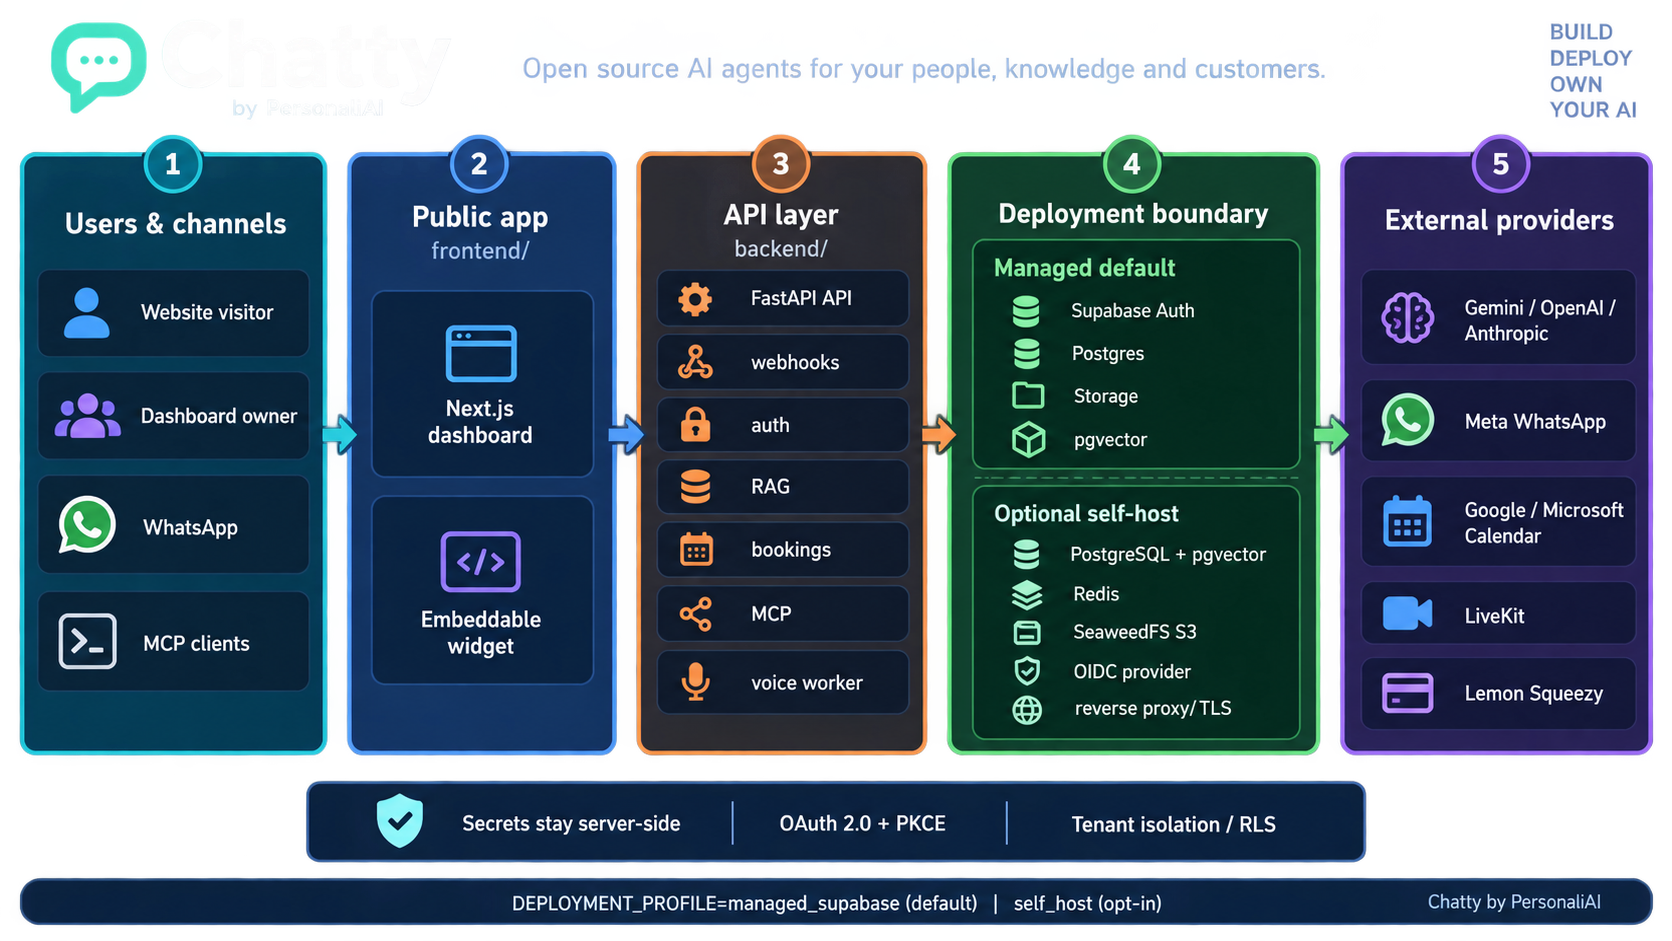
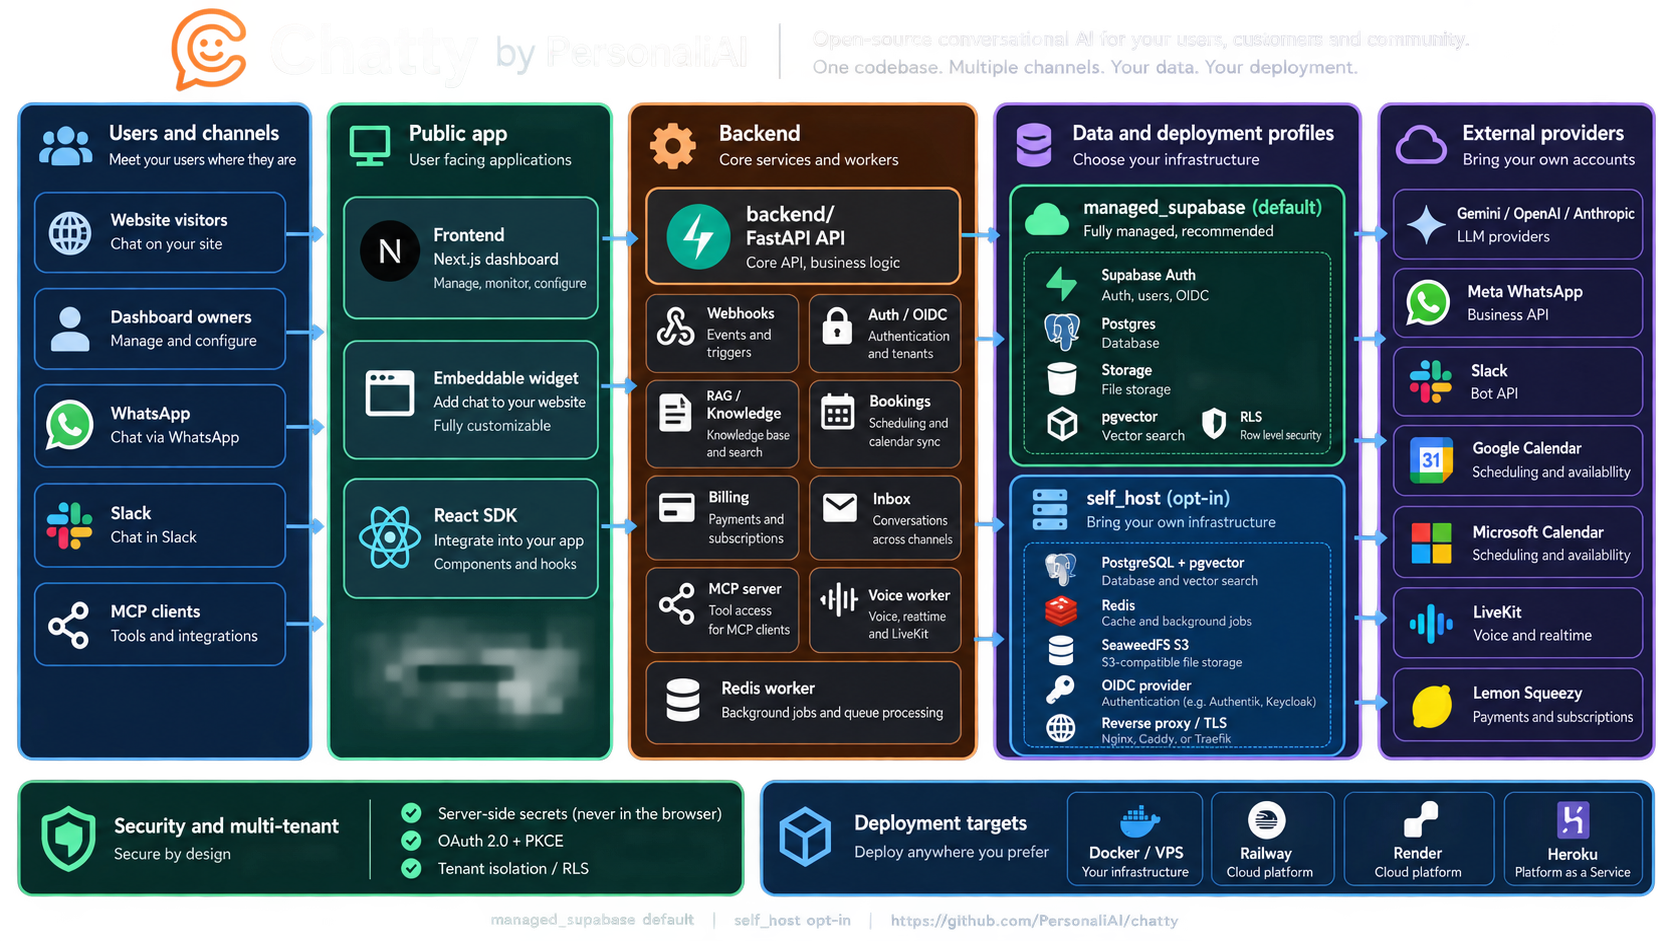
docs: document full architecture and platform compatibility

diff --git a/README.md b/README.md
@@ -89,23 +89,97 @@ main request flow.
 
 ```mermaid
 flowchart LR
-    visitor(("Website visitor")) -->|chat / voice| widget["Embeddable widget\n(Next.js)"]
-    owner(("Bot owner")) --> dashboard["Dashboard\n(Next.js)"]
-    agent(("AI agent\n(Claude, etc.)")) -->|MCP / OAuth 2.0| api
-    widget --> api["chatty-backend\n(FastAPI)"]
-    dashboard --> api
-    caller(("Phone-call-style\nvoice visitor")) -->|WebRTC| voice["voice_worker.py\n(LiveKit Agents)"]
-    voice --> api
-    api --> db[("Supabase\nPostgres + pgvector + RLS")]
-    api --> llm["Gemini / BYOK LLM"]
-    voice --> livekit["LiveKit Server\n(Self-Hosted / Cloud)"]
+    classDef channel fill:#0f3554,color:#fff,stroke:#38bdf8
+    classDef app fill:#073b35,color:#fff,stroke:#34d399
+    classDef service fill:#4a2811,color:#fff,stroke:#fb923c
+    classDef managed fill:#064e3b,color:#fff,stroke:#6ee7b7
+    classDef selfhost fill:#102a43,color:#fff,stroke:#60a5fa
+    classDef provider fill:#29144f,color:#fff,stroke:#c084fc
+    classDef target fill:#172554,color:#fff,stroke:#93c5fd
 
-    style widget fill:#6366f1,color:#fff,stroke:none
-    style dashboard fill:#6366f1,color:#fff,stroke:none
-    style api fill:#009688,color:#fff,stroke:none
-    style voice fill:#ff6600,color:#fff,stroke:none
-    style db fill:#3ecf8e,color:#000,stroke:none
-    style agent fill:#8b5cf6,color:#fff,stroke:none
+    subgraph channels["Users and channels"]
+        visitor(("Website visitors")):::channel
+        owner(("Dashboard owners")):::channel
+        whatsapp["WhatsApp"]:::channel
+        slack["Slack"]:::channel
+        mcp_client["MCP clients"]:::channel
+    end
+
+    subgraph frontend["frontend/ — Next.js public app"]
+        dashboard["Dashboard"]:::app
+        widget["Embeddable widget"]:::app
+        sdk["React SDK"]:::app
+    end
+
+    subgraph backend["backend/ — FastAPI and workers"]
+        api["API + auth/OIDC"]:::service
+        webhook["Webhooks"]:::service
+        rag["RAG / knowledge base"]:::service
+        booking["Bookings + calendar sync"]:::service
+        billing["Billing + subscriptions"]:::service
+        inbox["Inbox + conversations"]:::service
+        mcp["MCP server"]:::service
+        voice["Voice worker + LiveKit"]:::service
+        jobs["Redis worker"]:::service
+    end
+
+    subgraph data["Data and deployment profiles"]
+        subgraph managed["managed_supabase (default)"]
+            supabase["Supabase Auth · Postgres · Storage · pgvector · RLS"]:::managed
+        end
+        subgraph selfhost["self_host (opt-in)"]
+            portable["PostgreSQL + pgvector · Redis · SeaweedFS S3 · OIDC"]:::selfhost
+            proxy["Reverse proxy + TLS"]:::selfhost
+        end
+    end
+
+    subgraph providers["External providers"]
+        llm["Gemini / OpenAI / Anthropic"]:::provider
+        calendar["Google / Microsoft Calendar"]:::provider
+        meta["Meta WhatsApp + Slack"]:::provider
+        livekit["LiveKit"]:::provider
+        lemonsqueezy["Lemon Squeezy"]:::provider
+    end
+
+    subgraph targets["Deployment targets"]
+        docker["Docker / VPS"]:::target
+        railway["Railway"]:::target
+        render["Render"]:::target
+        heroku["Heroku-style PaaS"]:::target
+    end
+
+    visitor --> widget
+    owner --> dashboard
+    whatsapp --> webhook
+    slack --> webhook
+    mcp_client -->|OAuth 2.0 + PKCE| mcp
+    dashboard --> api
+    widget --> api
+    sdk --> widget
+    webhook --> api
+    api --> rag
+    api --> booking
+    api --> billing
+    api --> inbox
+    api --> mcp
+    api --> voice
+    api --> jobs
+    api --> supabase
+    api --> portable
+    proxy --> api
+    api --> llm
+    api --> calendar
+    api --> meta
+    api --> lemonsqueezy
+    voice --> livekit
+    docker -.-> dashboard
+    docker -.-> api
+    railway -.-> dashboard
+    railway -.-> api
+    render -.-> dashboard
+    render -.-> api
+    heroku -.-> dashboard
+    heroku -.-> api
 ```
 
 ```
@@ -130,6 +204,24 @@ chatty/
 
 The self-host stack is isolated from the managed path. Follow [`backend/docs/SELF_HOST_QUICKSTART.md`](backend/docs/SELF_HOST_QUICKSTART.md)
 and use [`backend/env.self-host.example`](backend/env.self-host.example); do not point it at a production Supabase database.
+
+### Deployment-platform compatibility
+
+The portable self-host contract is Docker Compose. It is intentionally provider-neutral, so the same containers can run
+on a VPS or a container PaaS, but this repository does **not** currently claim one-click support for every platform.
+Railway, Render, and Heroku-style platforms require a platform manifest/template plus separate managed resources; those
+files are not present yet. Do not present a generic Docker deploy as a complete one-click Chatty installation.
+
+| Platform | Official deployment guide | Current repository status |
+|---|---|---|
+| ![Docker](https://img.shields.io/badge/Docker%20%2F%20VPS-2496ED?logo=docker&logoColor=white) | [Docker Compose self-host quickstart](backend/docs/SELF_HOST_QUICKSTART.md) | **Supported now** for the backend stack; deploy the frontend separately and put TLS in front. |
+| ![Railway](https://img.shields.io/badge/Railway-0B0D0E?logo=railway&logoColor=white) | [Railway Docker Compose guide](https://docs.railway.com/guides/docker-compose) | Docker-compatible, but **no Railway template or one-click button yet**. |
+| ![Render](https://img.shields.io/badge/Render-46E3B7?logo=render&logoColor=111827) | [Render Docker guide](https://render.com/docs/docker) | Docker-compatible, but **no `render.yaml` Blueprint or one-click button yet**. |
+| ![Heroku](https://img.shields.io/badge/Heroku-430098?logo=heroku&logoColor=white) | [Heroku container runtime](https://devcenter.heroku.com/articles/container-registry-and-runtime) | Individual containers may run, but **no `app.json`/Heroku Button or full-stack validation yet**. |
+
+For a managed deployment keep `DEPLOYMENT_PROFILE=managed_supabase`. For the provider-neutral stack use
+`DEPLOYMENT_PROFILE=self_host` and follow the self-host quickstart. Both profiles are in the same codebase; switching the
+profile is an explicit deployment decision and does not migrate or modify the other environment.
 
 ## 📋 Requirements
 
